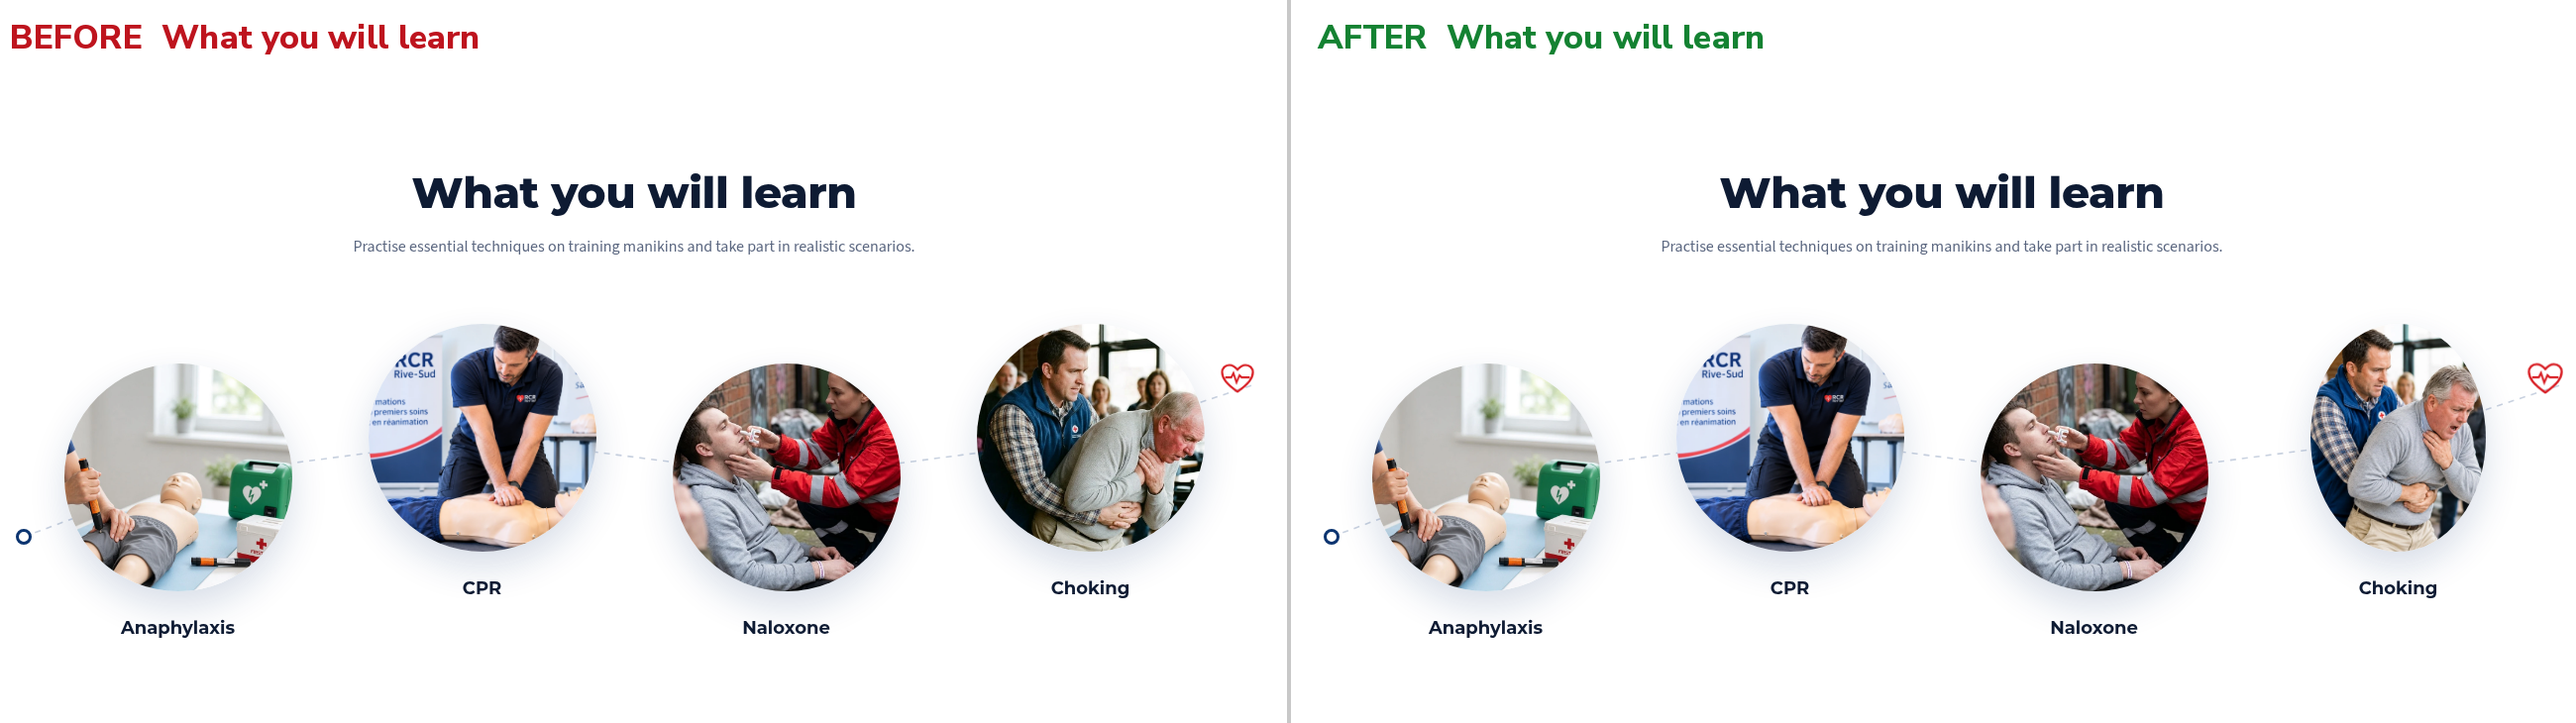
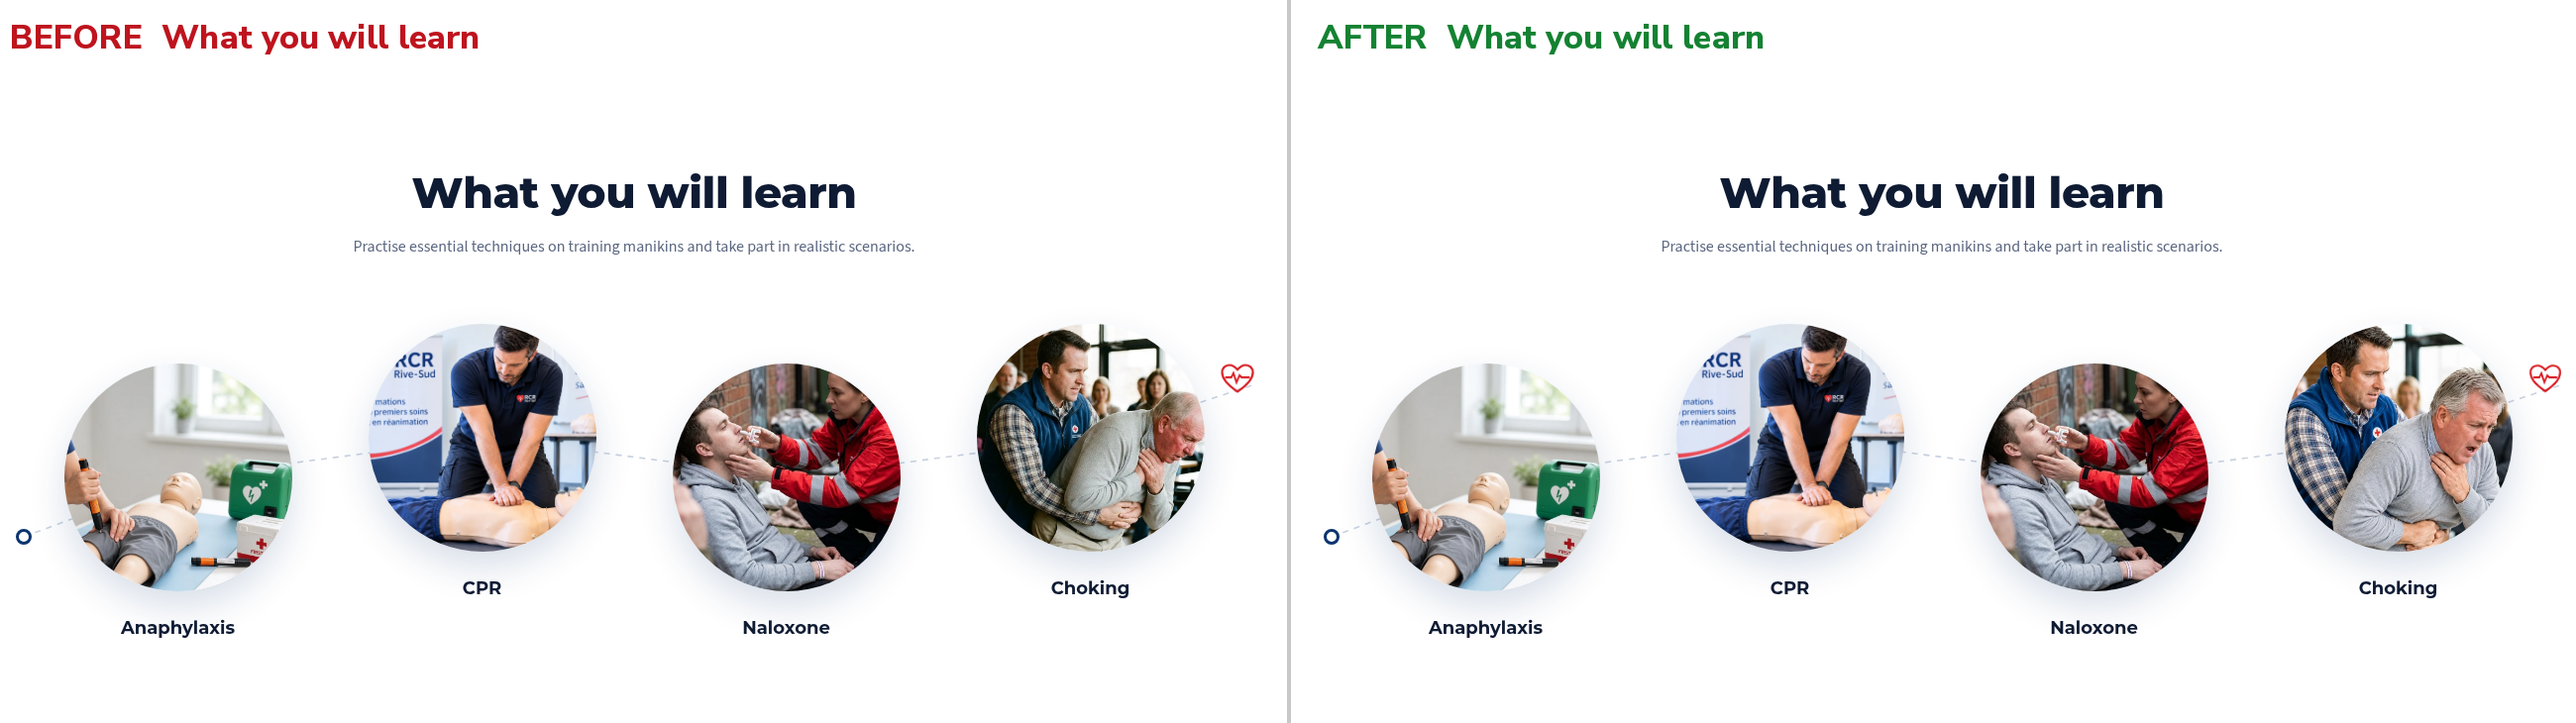
Choking circle uses a square crop so it renders round; updated before/after
Claude-Session: https://claude.ai/code/session_014s7AHDewbCsaYy53xfkXnf

Changed region(s): [[0.8723, 0.4521, 0.9969, 0.7836]]

diff --git a/build/i18n/README.md b/build/i18n/README.md
@@ -160,3 +160,5 @@ French stays the main language at `/`; English lives under `/en/`. Polylang 3.9.
   inpainted, English redrawn in Nunito Sans; logo kept). EN home ebc6d4e -> 735.
 - 738 epipen-enfant-en (build/images/translate_epipen_child.py) on EN Services ddd3649;
   737 desobstruction-adulte-enfant-en (build/images/translate_choking_adult_child.py) on EN home d90b39b.
+- "Ce que vous apprendrez" choking circle (dbb8121, FR + EN) now uses 743 desobstruction-adulte-carre (square crop of
+  696) so it renders as a circle; 696 itself was portrait and showed as an oval. EN alt for 743 added to rcr_en_alts.
